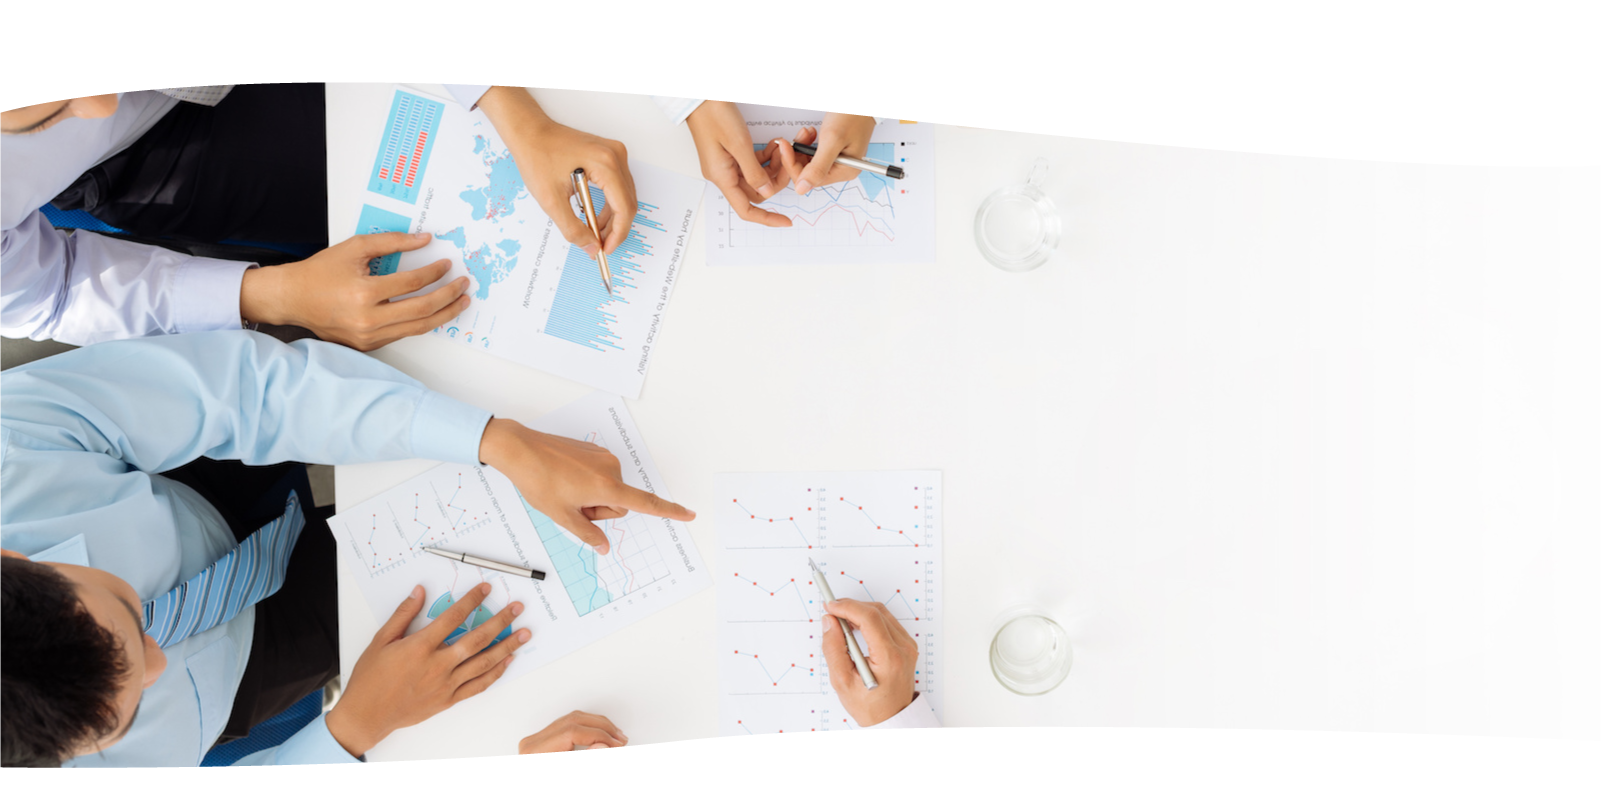
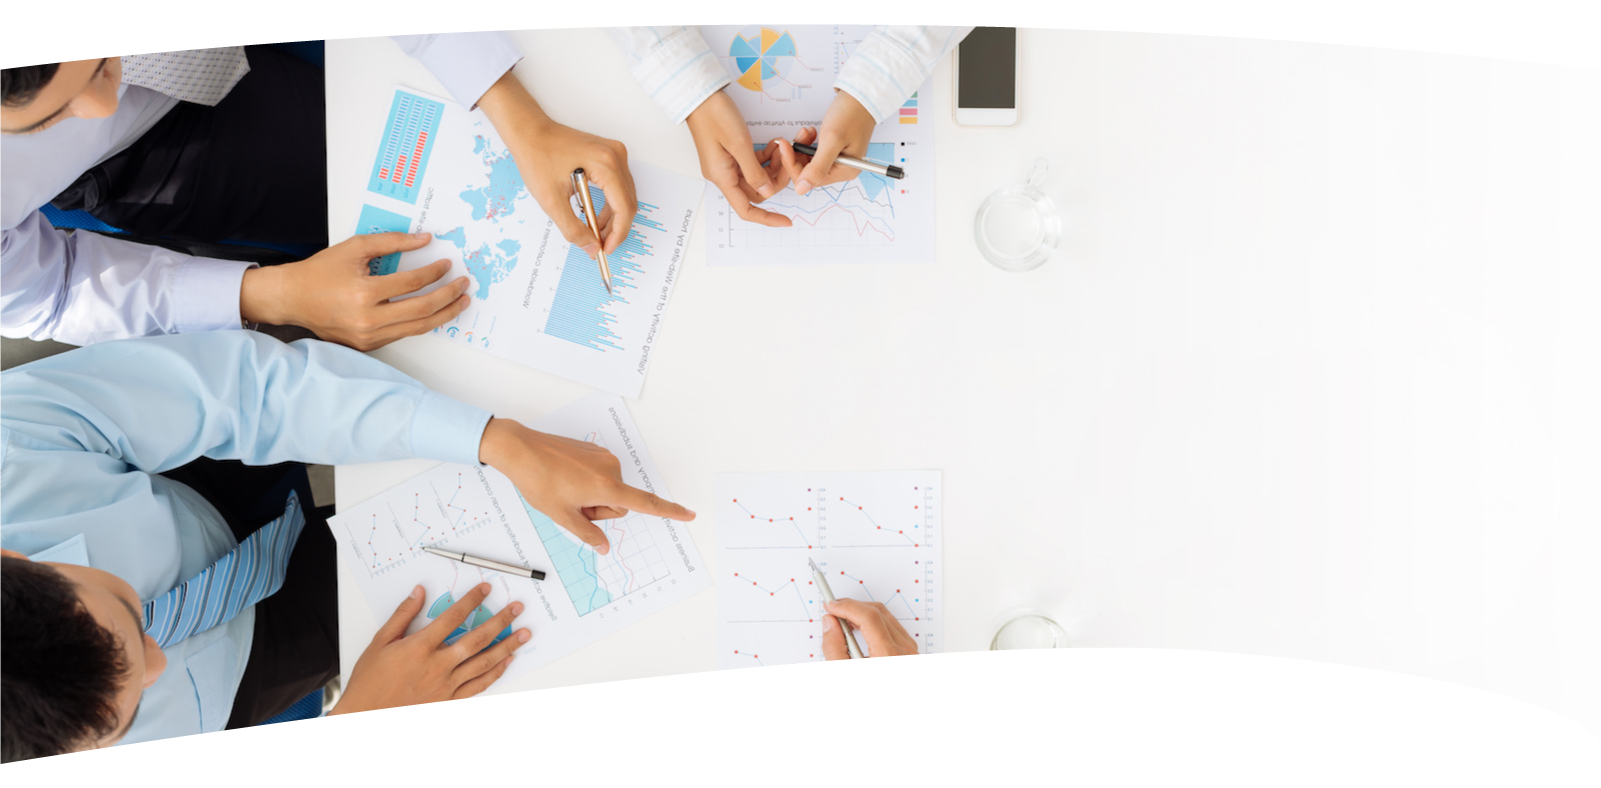
Updated prof serv image

diff --git a/src/assets/styles/sections.scss b/src/assets/styles/sections.scss
@@ -28,7 +28,7 @@
 }
 
 .section-professional-services {
-  background: url('../../../static/backgrounds/prof.serv.2.png');
-  background-position: center top;
+  background: url('../../../static/backgrounds/prof.serv.png');
+  background-position: center center;
   background-repeat: no-repeat;
 }
